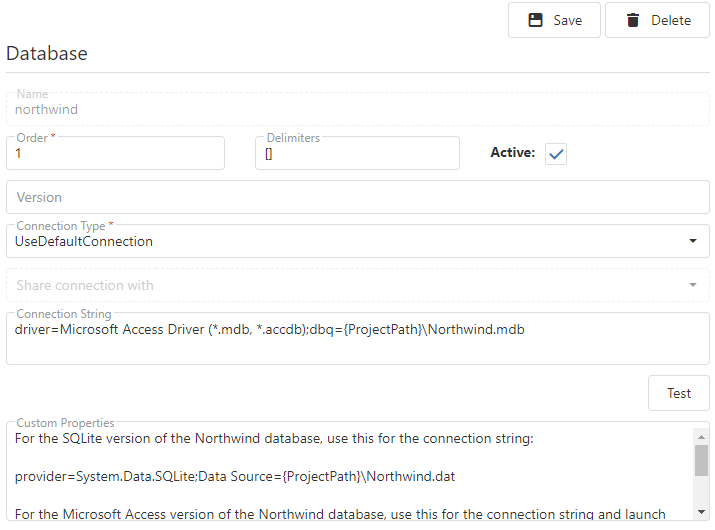
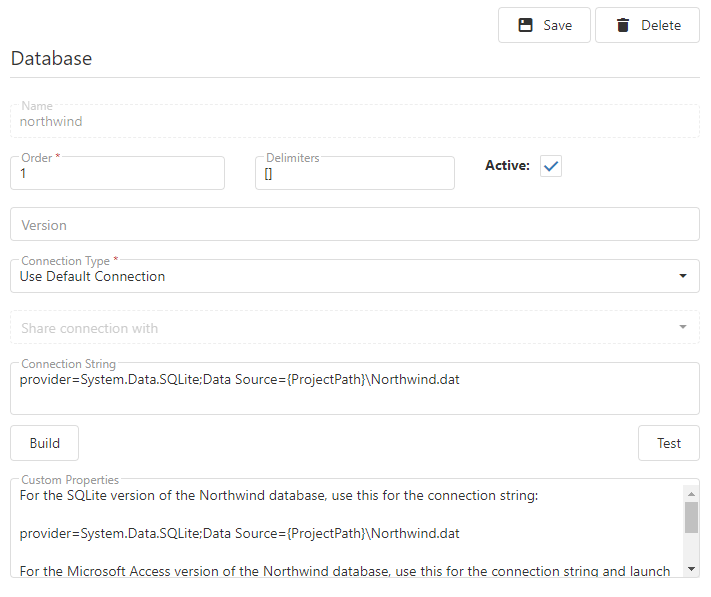
Updated screenshots and added a few new images and topics. Completed links in whats new topic.

diff --git a/_docs/whats-new.md b/_docs/whats-new.md
@@ -11,27 +11,27 @@ parent: Home
 
 * When [refreshing the data dictionary]({% link _docs/studio/datadictionary/refreshing.md %}), you can now choose specific tables to refresh from a list. 
 
-* The database tree view will now scroll to the previously selected item after a change.
+* The [database tree view]({% link _docs/studio/datadictionary/database-properties.md %}) will now scroll to the previously selected item after a change.
 
-* If you launch Horizon Reports with no project created, you are now automatically prompted to create a new project.
+* If you launch Horizon Reports with no [project]({% link _docs/studio/creating-a-project.md %}) created, you are now automatically prompted to create a new project.
 
-* You can now highlight items in the database tree view by last updated date or keyword search.
+* You can now highlight items in the [database tree view]({% link _docs/studio/datadictionary/database-properties.md %}) by last updated date or keyword search.
 
-* Added Format presets for different data types.
+* Added [Format]({% link _docs/studio/datadictionary/field-properties.md %}) presets for different data types.
 
-* In Studio, you can now right-click on a table and choose "View Table Contents" to retrieve and view the table.
+* In Studio, you can now right-click on a table and choose [View Table Contents]({% link _docs/studio/datadictionary/view-table-contents.md %}) to retrieve and view the table.
 
-* Added a connection string builder to Studio to help creating database connection strings.
+* Added a [connection string builder]({% link _docs/studio/datadictionary/connection-string-builder.md %}) to Studio to help creating database connection strings.
 
-* You can now test joins with a new Test button.
+* You can now test [relations]({% link _docs/studio/datadictionary/relation-properties.md %}) with a new Test button.
 
-* The BeforeExportReport plugin method now supports changes to the export options for the report. 
+* The [BeforeExportReport]({% link _docs/plugins/reportengine/beforeexportreport.md %}) plugin method now supports changes to the export options for the report. 
 
-* Moved the default location for hrsettings.json file to Project_Data. This allows setting the file permissions for the application root folder to read-only. Previous installations that have hrsettings.json in the application root will still continue to work normally. 
+* Moved the default location for [hrsettings.json]({% link _docs/how-to/configuring.md %}) file to Project_Data. This allows setting the file permissions for the application root folder to read-only. Previous installations that have hrsettings.json in the application root will still continue to work normally. 
 
 * Added support for string concat (||) operator when reporting against a data source that requires it (like SQLite).
 
-* Added new URL for directly exporting a report to file. 
+* Added new URL for [directly exporting a report]({% link _docs/how-to/usingfromotherwebapps.md %}) to file. 
 
 ## Bug Fixes
 

diff --git a/_docs/studio/datadictionary/database-properties.md b/_docs/studio/datadictionary/database-properties.md
@@ -43,7 +43,17 @@ The properties displayed are:
     * *User can manage connection string*: this allows you to define the connection string for the database at runtime (in the Setup Wizard) without having to create a plugin to set the connection string. The connection string is stored in the encrypted datasources.xml file in the App_Data folder. This file should not be deployed to the web server but is created there the first time Horizon Reports is run.
 
 
-* *Connection string*: this contains the connection string to use when refreshing the data dictionary in Studio or in the report writer when *Connection type* is set to *Use default connection*. To use a DSN, specify "dsn=*DSN name*." For ODBC, the connection string is typically something like "driver=*ODBC driver name*;server=*server name*;database=*database name*;uid=*user name*;pwd=*password*." For OLE DB, the connection string is typically something like "Provider=*OLE DB provider name*;Data Source=*server name*;Initial Catalog=*database name*;User ID=*user name*;Password=*password*." For SqlClient, the connection string is typically something like "Provider=System.Data.SqlClient;Server=*server name*;Database=*database name*;User ID=*user name*;Password=*password*." See <a href="http://www.connectionstrings.com" target="top">www.connectionstrings.com</a> for connection strings for different ODBC drivers and OLE DB providers.
+* *Connection string*: this contains the connection string to use when refreshing the data dictionary in Studio or in the report writer when *Connection type* is set to *Use default connection*. To use a DSN, specify "dsn=*DSN name*." 
+
+	For ODBC, the connection string is typically something like "driver=*ODBC driver name*;server=*server name*;database=*database name*;uid=*user name*;pwd=*password*." 
+	
+	For OLE DB, the connection string is typically something like "Provider=*OLE DB provider name*;Data Source=*server name*;Initial Catalog=*database name*;User ID=*user name*;Password=*password*." 
+	
+	For SqlClient, the connection string is typically something like "Provider=System.Data.SqlClient;Server=*server name*;Database=*database name*;User ID=*user name*;Password=*password*." 
+	
+	See <a href="http://www.connectionstrings.com" target="top">www.connectionstrings.com</a> for connection strings for different ODBC drivers and OLE DB providers.
+
+* *Build*: click this button to launch the [connection string builder]({% link _docs/studio/datadictionary/connection-string-builder.md %}).
 
 * *Test*: click this button to test the connection settings for the database.
 

diff --git a/_docs/studio/datadictionary/connection-string-builder.md b/_docs/studio/datadictionary/connection-string-builder.md
@@ -1,0 +1,32 @@
+---
+layout: default
+title: Connection String Builder
+nav_order: 13
+parent: Data Dictionary
+grand_parent: Horizon Reports Studio
+---
+
+Clicking the Build button beside a connection string setting brings up the Connection String Builder dialog, which allows you to visually build and test a connection string.
+
+![](/assets/images/connectionstringbuilder.png)
+
+The first choice to make is the .NET provider to use: System.Data.Odbc for an ODBC data source, System.Data.OleDb for an OLE DB data source, MySql.Data.MySqlClient for a MySql data source, System.Data.SQLite for a SQLite data source, and System.Data.SqlClient for a Microsoft SQL Server data source. Which other settings appear depends on the .NET provider you selected.
+
+
+* *Driver*: select the driver to use from the drop-down list. This option is only visible for ODBC data sources.
+
+
+* *Server*: enter the name of the server to connect to. This option isn't available for file-based databases such as Microsoft Access or SQLite.
+
+
+* *Database*: for file-based databases such as Microsoft Access or SQLite, enter the folder or path to the database file. For server-based databases such as Microsoft SQL Server or MySql, enter the database name.
+
+
+* *User name*: enter the user name to use or leave it blank for a trusted connection.
+
+
+* *Password*: enter the password to use or leave it blank for a trusted connection.
+
+
+* *Other settings*: enter any additional settings required by the driver or database.
+

diff --git a/_docs/how-to/usingfromotherwebapps.md b/_docs/how-to/usingfromotherwebapps.md
@@ -63,6 +63,32 @@ For date values, use YYYY-MM-DD HH:MM:SS. For example:
     https://www.MyReports.com?username=admin&password=admin
     &reporttorun=146608a9-7af8-4810-b8be-88848ac795ae
       &8df41129-86be-4800-9a47-08495d6ec9e8=2014-1-1 00:00:00,2014-12-31 23:59:59
+	  
+## Exporting a report
+
+To export a report to file without displaying any UI dialog, use "ReportPreviewDirect/export" in the URL. The same options for specifying credentials and filter options when running a report directly are also used when exporting. By default, a *pdf* file will be generated, but you can specify the *filetype* parameter if a different output type is required.
+
+For example, to generate a csv file:
+
+    https://www.MyReports.com?username=admin&password=admin
+      &reporttorun=146608a9-7af8-4810-b8be-88848ac795ae
+      &filetype=csv
+
+The available file types are:
+
+* csv
+* html
+* bmp
+* gif
+* jpg
+* png
+* tiff
+* mht
+* pdf
+* rtf
+* text
+* xlsx
+* xlsxfullformat
 
 ## Displaying Horizon Reports in an IFrame
 If you use the report writer inside an IFrame, you can subscribe to a new "bootstrapperDone" event with addEventListener. This event fires when the page has finished loading, and can be used to execute actions in the parent appication. Here's an example that puts the report writer UI into an IFrame and hides it until it's finished loading:

diff --git a/_docs/studio/creating-a-project.md b/_docs/studio/creating-a-project.md
@@ -21,7 +21,7 @@ The new project dialog has the following options:
 
 * *Add delimiters to all names*: Turn this setting on if you want delimiters added to all names. When off, Studio automatically adds delimiters to table and field names it thinks need them: names containing illegal characters such as spaces or names using keywords such as TABLE. 
 
-* *Connection string*: Enter the connection string for the application database you'd like to query against. Horizon Reports will use this connection to "discover" the metadata for a database, including all of its tables, fields, and relationships.
+* *Connection string*: Enter the connection string for the application database you'd like to query against. Horizon Reports will use this connection to "discover" the metadata for a database, including all of its tables, fields, and relationships. 
 
     For ODBC, the connection string is typically something like "driver=*ODBC driver name*;server=*server name*;database=*database name*;uid=*user name*;pwd=*password*."
 

diff --git a/_docs/studio/datadictionary/adding-a-database.md b/_docs/studio/datadictionary/adding-a-database.md
@@ -33,4 +33,8 @@ To start the process, click the Add button (![](/assets/images/addbutton.png)) b
 
 * *Create subtables for self joined tables*: Turn this option on to automatically create a subtable any time any self-joined table or more than one relationship between the same set of tables is discovered. You can rename the subtable if you wish. See the [Creating a Subtable]({% link _docs/studio/datadictionary/table-properties.md %}) topic for information on subtables.
 
+* *Version*: the version number to assign to new tables and fields.
+
+* *Refresh All Tables*: Turn this option off if you want to choose which tables to add. 
+
 Once you've filled in all the information in this dialog, click the *Add Database* button. Horizon Reports Studio then performs the discovery process and adds a new database entry to the data dictionary for the project.

diff --git a/_docs/studio/datadictionary/relation-properties.md b/_docs/studio/datadictionary/relation-properties.md
@@ -1,7 +1,7 @@
 ---
 layout: default
 title: Relation Properties
-nav_order: 8
+nav_order: 9
 parent: Data Dictionary
 grand_parent: Horizon Reports Studio
 ---
@@ -48,3 +48,5 @@ A join can be defined as a list of field pairs, or as a SQL expression (complex 
     Use a comma-delimited list of values if the relation was added in one version and later removed. For example, "5.3+,5.5-" means it was added in version 5.3 and removed in version 5.6.
 
     > <span class="glyphicon glyphicon-info-sign" aria-hidden="true"></span> Multiple relations between the same pair of tables are allowed if they have different version numbers.
+	
+* *Test*: click this button to test the relation by joining the tables and displaying the results of the join.

diff --git a/_docs/how-to/configuring.md b/_docs/how-to/configuring.md
@@ -51,7 +51,7 @@ Here is an example of an options.json file with all configuration options specif
 
 # hrsettings.json
 
-You can configure the following options in an **hrsettings.json** file in the root of the web application folder:
+You can configure the following options in an **hrsettings.json** file. The default location for this file is in the *Project_Data* folder. However, it's also supported in the root of the web application folder:
 
 - *DefaultConnectionString*: A connection string for a database that stores the projects for this installation. 
 ```json

diff --git a/_docs/studio/datadictionary/view-table-contents.md b/_docs/studio/datadictionary/view-table-contents.md
@@ -1,0 +1,15 @@
+---
+layout: default
+title: Viewing Table Contents
+nav_order: 12
+parent: Data Dictionary
+grand_parent: Horizon Reports Studio
+---
+
+You can use Studio to retrieve the data for a table. To do so, right click on the desired table in the database tree view, and choose *View Table Contents*. 
+
+![](/assets/images/viewtablemenu.png)
+
+After the contents of the table are retrieved from the database, they appear in a dialog. 
+
+![](/assets/images/tablecontents.png)

diff --git a/_docs/studio/datadictionary/refreshing.md b/_docs/studio/datadictionary/refreshing.md
@@ -1,7 +1,7 @@
 ---
 layout: default
 title: Refreshing the Data Dictionary
-nav_order: 9
+nav_order: 10
 parent: Data Dictionary
 grand_parent: Horizon Reports Studio
 ---

diff --git a/_docs/studio/datadictionary/creating-a-relation.md b/_docs/studio/datadictionary/creating-a-relation.md
@@ -1,7 +1,7 @@
 ---
 layout: default
 title: Creating a Relation
-nav_order: 7
+nav_order: 8
 parent: Data Dictionary
 grand_parent: Horizon Reports Studio
 ---

diff --git a/_docs/studio/datadictionary/versioning.md b/_docs/studio/datadictionary/versioning.md
@@ -1,7 +1,7 @@
 ---
 layout: default
 title: Versioning
-nav_order: 10
+nav_order: 11
 parent: Data Dictionary
 grand_parent: Horizon Reports Studio
 ---
